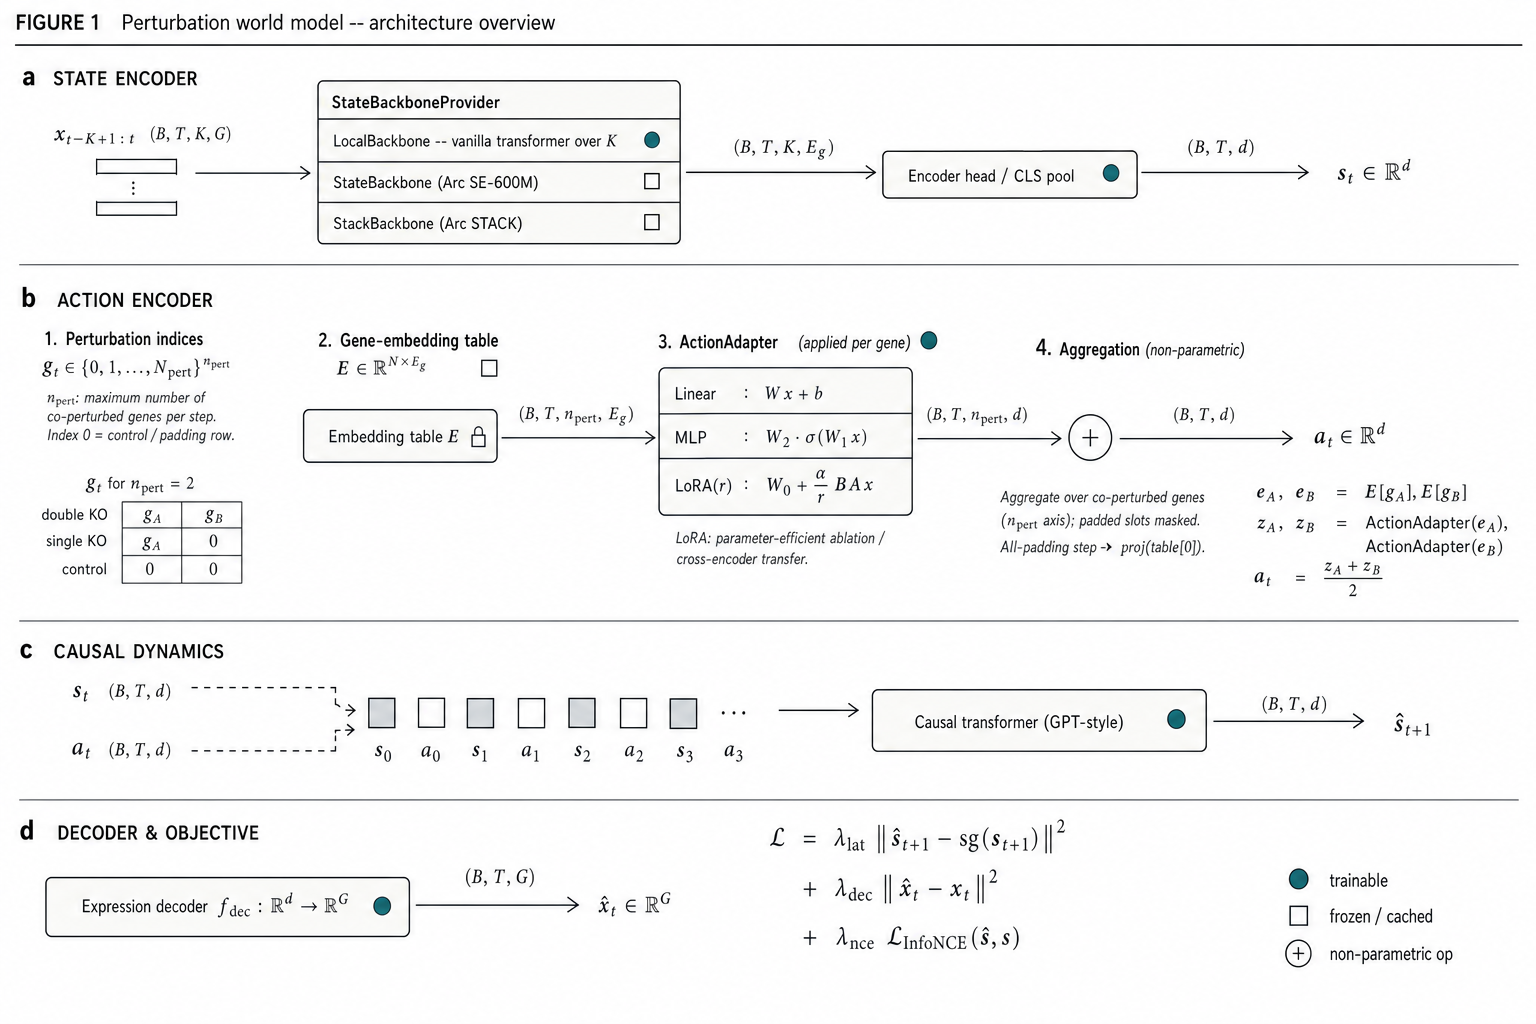
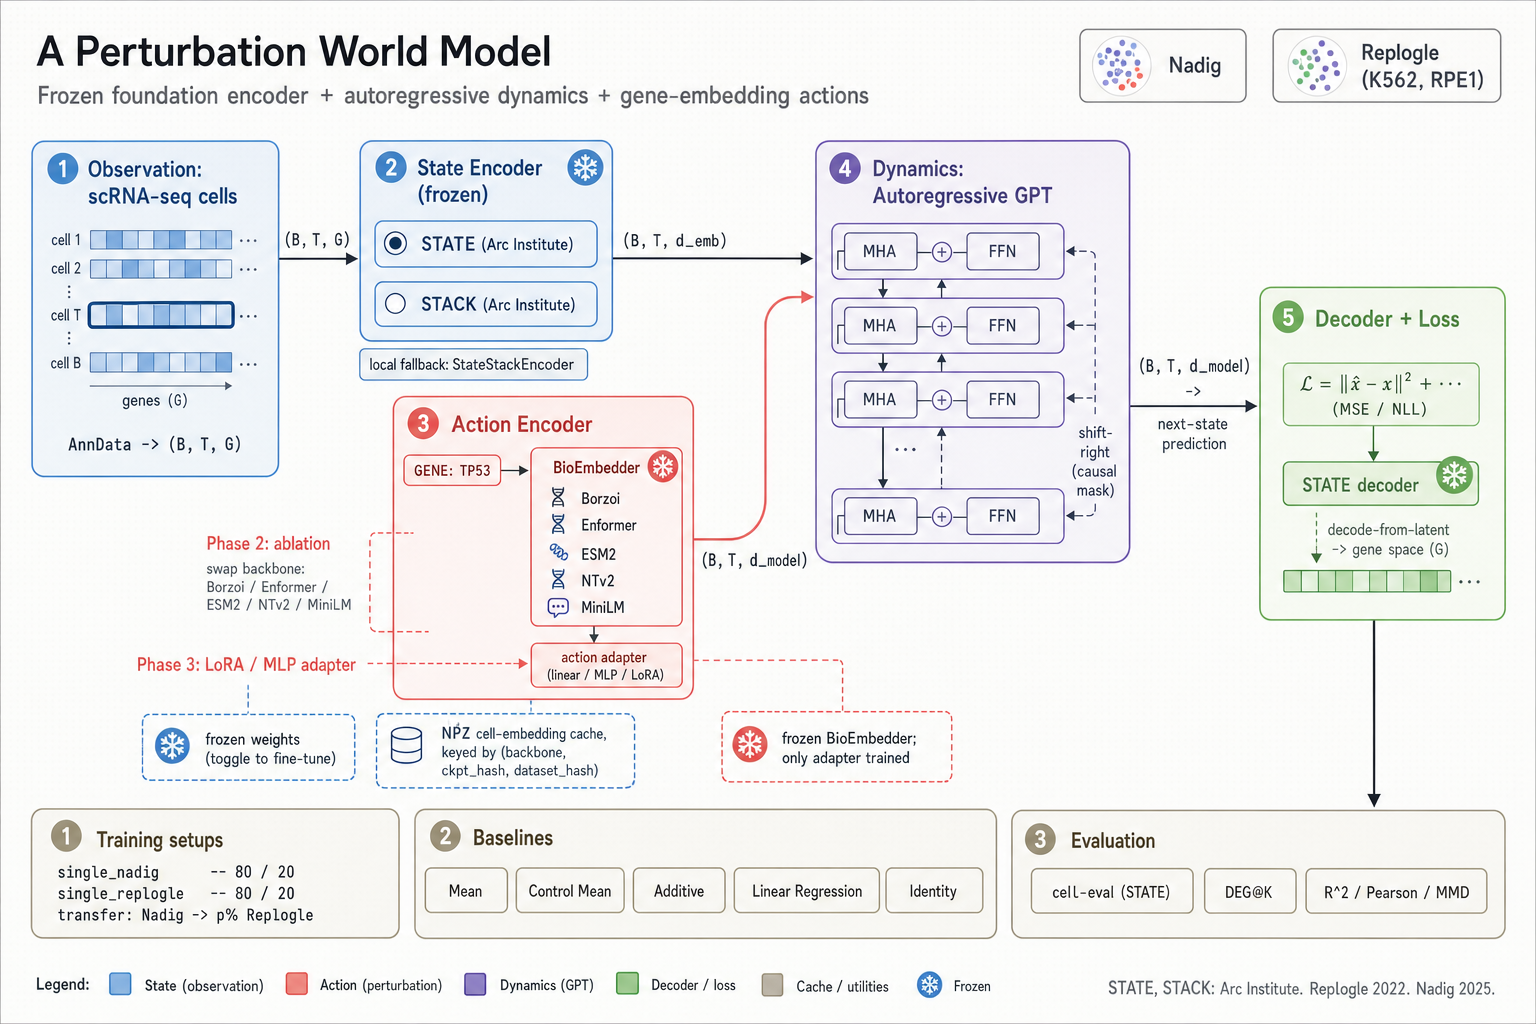
docs(world_model): redraw Phase 5 schematic as a paper-style method overview
The previous architecture-only schematic is replaced by a wider
method-overview figure in the visual idiom of Distill.pub / "Attention
Is All You Need" / DeepMind Genie / Cellflow main-paper figures.

Visual changes:
- 16:9 paper-quality layout, off-white background with a faint dotted
  grid, soft 5-hue palette (state-blue, action-coral, dynamics-indigo,
  decoder-emerald, utility warm-gray), thin slate arrows, subtle
  drop-shadows only, rounded-12px boxes.
- Five numbered main-pipeline boxes: (1) Observation: scRNA-seq cells
  with a small gene-expression-matrix glyph, (2) State Encoder with
  STATE / STACK sub-boxes and the local StateStackEncoder fallback
  chip, (3) Action Encoder branching from below with the BioEmbedder
  backbone list (Borzoi / Enformer / ESM2 / NTv2 / MiniLM), action
  adapter chip, and the dashed Phase-2 and Phase-3 ablation brackets,
  (4) autoregressive GPT dynamics with explicit MHA + FFN block
  glyphs and a causal-mask hint, (5) Decoder + Loss with the MSE / NLL
  formula and a STATE-decoder chip.
- Snowflake-on-disc frozen markers on State Encoder and BioEmbedder;
  utility chips below for the NPZ cell-embedding cache and the
  fine-tune toggle, connected by dashed lines.
- Bottom rail with three numbered boxes: Training setups
  (single_nadig / single_replogle / transfer), Baselines (Mean /
  Control Mean / Additive / Linear Regression / Identity), and
  Evaluation (cell-eval / DEG@K / R^2 . Pearson . MMD).
[…]

diff --git a/src/embpy/world_model/README.md b/src/embpy/world_model/README.md
@@ -41,21 +41,22 @@ Pipeline overview:
 
 ![Phase 5 model schematic](assets/phase5_architecture.png)
 
-*Detailed schematic of the current (Phase 5) model. The state encoder is
-now a `StateBackboneProvider` dispatching between the in-repo
-`StateStackEncoder` (`local`, trainable, default) and the frozen Arc
-Institute foundation models (`state` = SE-600M, `stack` = STACK). Cell
-embeddings are pre-computed once and cached on disk; the hot training
-path sees only `(B, T, K, E)` tensors. The action path goes through a
-frozen gene-embedding table; the trainable `ActionAdapter` (Linear /
-MLP / LoRA) is applied **per gene** over the `n_pert` axis, and the
-resulting `(B, T, n_pert, d)` tensor is then aggregated (mean / sum,
-with padded slots masked) into the action token `a_t`. State and
-action tokens are interleaved into a causal GPT that reads next-state
-predictions off the action-token positions. An optional
-`ExpressionDecoder` projects back to gene space. The full objective is
-a weighted sum of latent MSE, decoder MSE, and an optional InfoNCE
-term.*
+*Method overview. Cells from **Nadig** and **Replogle** (K562, RPE1)
+flow through a **frozen** foundation state encoder -- Arc Institute
+`STATE` or `STACK`, with cell embeddings cached on disk keyed by
+`(backbone, ckpt_hash, dataset_hash)`. A local-trainable
+`StateStackEncoder` is available as a fallback for ablation and
+debugging. A **gene-embedding action** -- produced by a frozen
+`BioEmbedder` backbone (Borzoi / Enformer / ESM2 / NTv2 / MiniLM) with
+a small trainable Linear / MLP / LoRA adapter -- conditions an
+**autoregressive GPT-style dynamics**, whose next-state prediction is
+decoded back to gene space by an `ExpressionDecoder`. The model is
+trained under three regimes (`single_nadig`, `single_replogle`,
+`Nadig -> p% Replogle` transfer) and benchmarked against five
+baselines (Mean / Control Mean / Additive / Linear Regression /
+Identity) using STATE's cell-eval suite (DEG@K, R^2 / Pearson / MMD).
+The two dashed brackets in the figure highlight the Phase-2
+(backbone-swap) and Phase-3 (adapter-kind: LoRA / MLP) ablations.*
 
 ### Mapping the reference paper to transcriptomics
 
